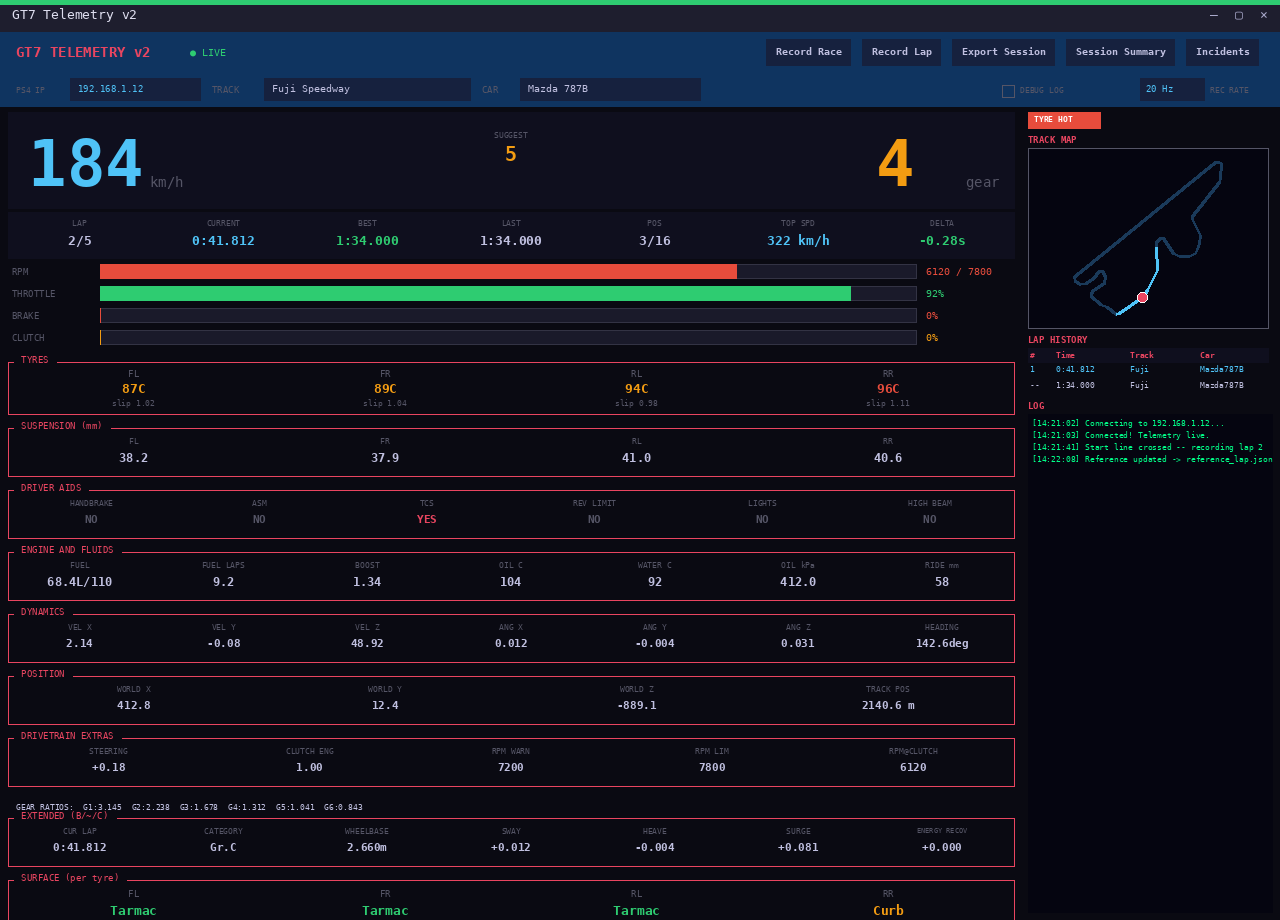
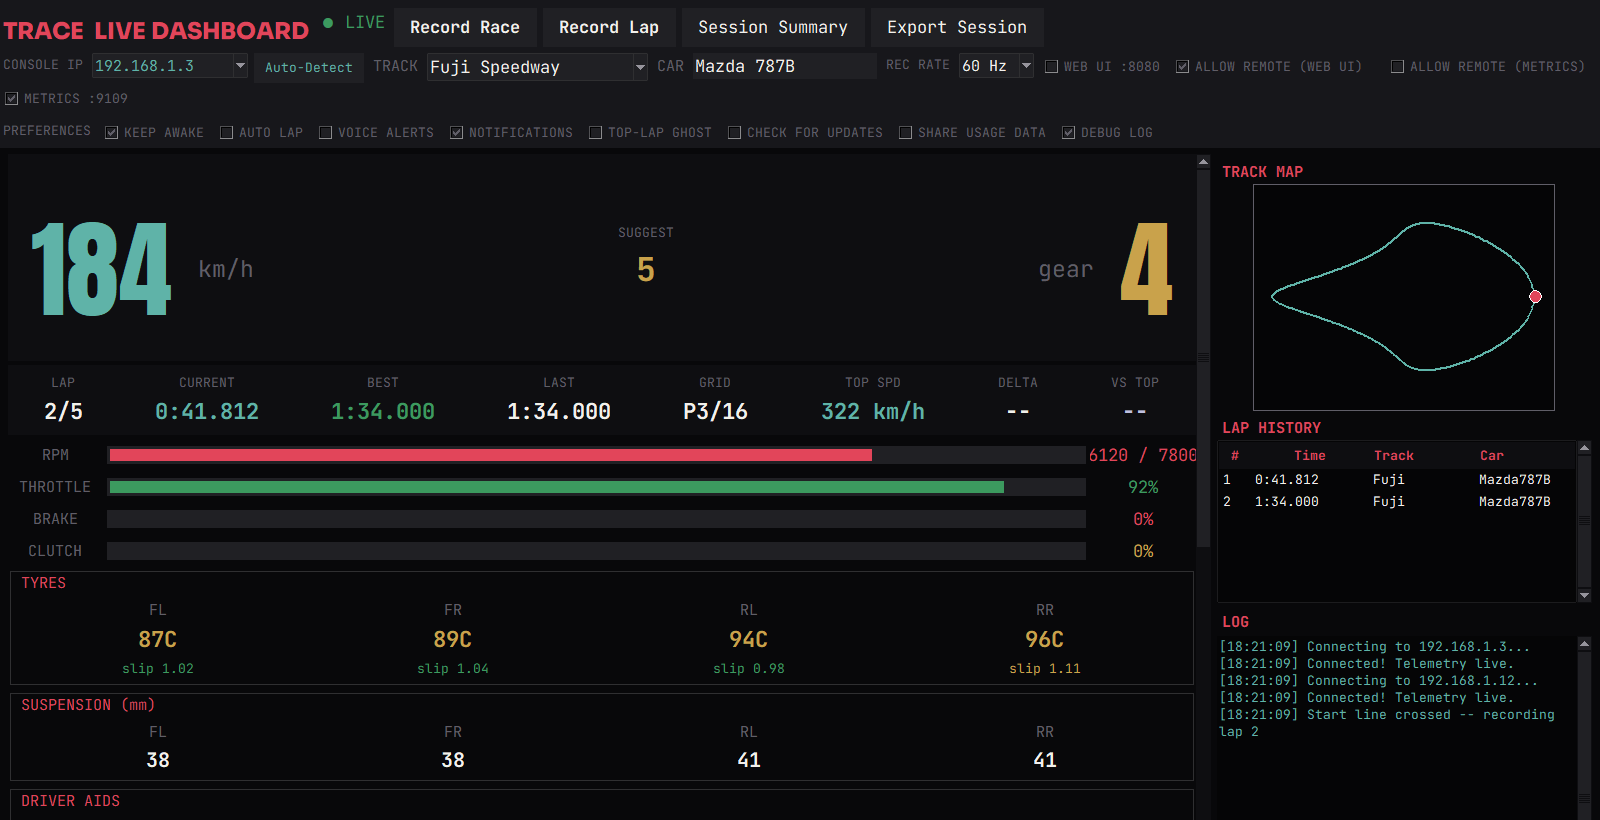
More design and housekeeping: share cards, font licences, docs screenshot, manifest
- Lap/race share cards (desktop + Android) use the website palette and JetBrains Mono.
- Bundle OFL.txt with the fonts; README credits them; package-data includes it.
- README dashboard screenshot regenerated with the current design.
- totalfiles.html: 46 files (OFL.txt); remove unused _center helper.

diff --git a/android/app/src/main/kotlin/app/trace/ShareCard.kt b/android/app/src/main/kotlin/app/trace/ShareCard.kt
@@ -31,13 +31,13 @@ object ShareCard {
     private const val M = 54f
 
     private fun col(hex: Long) = (0xFF000000 or hex).toInt()
-    private val BG = col(0x07080f)
-    private val PANEL = col(0x0d0e1a)
-    private val GRID = col(0x1c1e30)
-    private val FG = col(0xc8d3f5)
-    private val DIM = col(0x6b7194)
-    private val CYAN = col(0x00f0d4)
-    private val GREEN = col(0x39ff85)
+    private val BG = col(0x08080a)
+    private val PANEL = col(0x0e0e11)
+    private val GRID = col(0x202024)
+    private val FG = col(0xf2f0ec)
+    private val DIM = col(0x96949c)
+    private val CYAN = col(0x5fb3a8)
+    private val GREEN = col(0x3c9a5f)
 
     // ── spec builders ─────────────────────────────────────────────────────────
     private fun Meta.s(k: String): String? = this[k]?.toString()?.takeIf { it.isNotEmpty() }

diff --git a/src/gt7telem/share_card.py b/src/gt7telem/share_card.py
@@ -26,16 +26,18 @@ import textwrap
 
 import numpy as np
 
+from . import theme
+
 CARD = dict(
-    bg="#07080f",
-    panel="#0d0e1a",
-    grid="#1c1e30",
-    fg="#c8d3f5",
-    dim="#6b7194",
-    cyan="#00f0d4",
-    green="#39ff85",
-    red="#ff2255",
-    yellow="#ffd500",
+    bg="#08080a",
+    panel="#0e0e11",
+    grid="#202024",
+    fg="#f2f0ec",
+    dim="#96949c",
+    cyan="#5fb3a8",
+    green="#3c9a5f",
+    red="#e2455a",
+    yellow="#c9a24b",
 )
 
 # block rectangles in figure coordinates: [left, bottom, width, height]
@@ -43,7 +45,7 @@ _HEADLINE = [0.03, 0.07, 0.31, 0.77]
 _CHART = [0.41, 0.53, 0.56, 0.30]
 _MAP = [0.41, 0.08, 0.56, 0.36]
 
-_MONO = dict(family="monospace")
+_MONO = dict(family=theme.mpl_font_family())
 
 # car name: full size up to this many characters, then smaller, then two lines
 _CAR_FULL_CHARS = 24

diff --git a/src/gt7telem/launcher.py b/src/gt7telem/launcher.py
@@ -148,12 +148,6 @@ root = None
 _content = None   # the frame currently swapped into root (onboarding or menu)
 
 
-def _center(win, w, h):
-    win.update_idletasks()
-    sw, sh = win.winfo_screenwidth(), win.winfo_screenheight()
-    win.geometry(f"{w}x{h}+{(sw - w) // 2}+{(sh - h) // 2}")
-
-
 def _launch(tool, app_cls):
     global _content, _banner
     analytics.track_launch(tool)

diff --git a/CHANGELOG.md b/CHANGELOG.md
@@ -6,6 +6,9 @@ Format loosely follows [Keep a Changelog](https://keepachangelog.com/en/1.1.0/).
 ## [Unreleased]
 
 - **Light theme matches the website.** The Launcher, Lap Analyst, Race Analyst and Records windows (and the Android app) now use the website's light palette in light mode instead of the old blue-grey one. Design only; nothing else changed.
+- **Shareable PNG cards match the website too.** The lap card and race card (desktop and Android) use the website's palette and JetBrains Mono instead of the old neon colours and a generic monospace font.
+- **Font licences.** The bundled fonts now ship with their SIL Open Font License text and copyright lines (`gt7telem/fonts/OFL.txt`), and the README credits them.
+- **Housekeeping.** The README's dashboard screenshot shows the current design; the Files page lists every file (46 in the source zip) and a new test keeps it in sync; an unused window-centering helper was removed.
 - **Release notes.** The GitHub release text is now copied from this changelog by the release workflow (`tools/release_notes.py`), so the release page and this file can't disagree.
 
 ## [1.0.1] - 2026-11-08

diff --git a/README.md b/README.md
@@ -300,6 +300,8 @@ Full writeup and credits: **[gt7trace.netlify.app/about.html](https://gt7trace.n
 
 MIT — see [LICENSE](https://github.com/ransh2014/gt7telemtrace/blob/main/LICENSE).
 
+The fonts bundled with TRACE (Anton, Sora, Manrope and JetBrains Mono, the same ones the website uses) are licensed under the [SIL Open Font License 1.1](https://github.com/ransh2014/gt7telemtrace/blob/main/src/gt7telem/fonts/OFL.txt); they are loaded for TRACE only and never installed on your system.
+
 ## Support
 
 TRACE is free and always will be. If it's improved your GT7 sessions, a coffee is appreciated: **[ko-fi.com/ransh](https://ko-fi.com/ransh)**.
